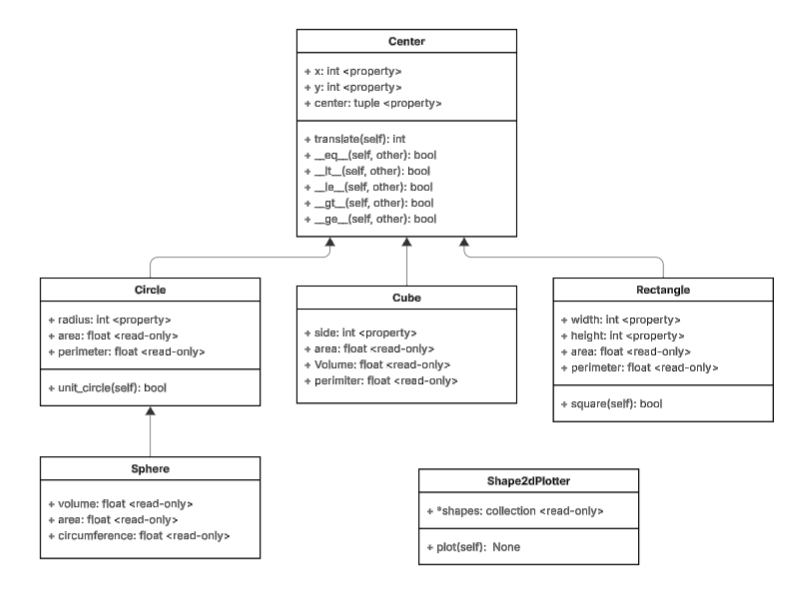
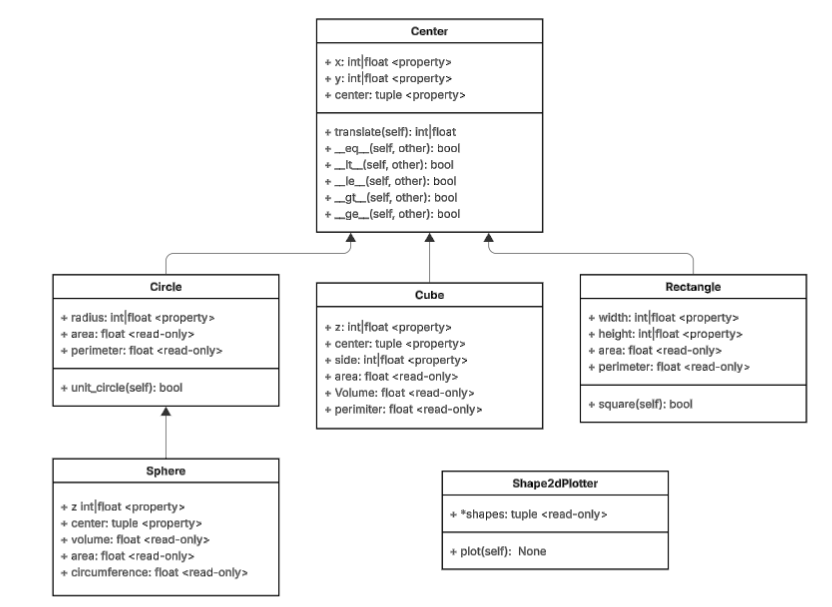
z implement in sphere and cube

Changed region(s): [[0.0311, 0.0302, 0.995, 0.9966], [0.4975, 0.755, 0.8085, 0.9664]]

diff --git a/center.py b/center.py
@@ -9,11 +9,11 @@ class Center:
     - y (int): The coordinate on the y axel.
 
     Dunder methods:
-    - __eq__: Compare if two child-classes are equal. The same type, area and perimeter
-    - __lt__: Check if a shape in child-class is smaller than another in same class. Compared by area.
-    - __le__: Check if a shape in child-class is smaller or equal to another in same class. Compared by area.
-    - __gt__: Check if a shape in child-class is greater than another in same class. Compared by area.
-    - __ge__: Check if a shape in child-class is greater or equal to another in same class. Compared by area.
+    - __eq__, ==: Compare if two child-classes are equal. The same type, area and perimeter
+    - __lt__, <: Check if a shape in child-class is smaller than another in same class. Compared by area.
+    - __le__, <=: Check if a shape in child-class is smaller or equal to another in same class. Compared by area.
+    - __gt__, >: Check if a shape in child-class is greater than another in same class. Compared by area.
+    - __ge__, >=: Check if a shape in child-class is greater or equal to another in same class. Compared by area.
 
     Methods:
     - translate(): Moves the center position by adding to the existing one.
@@ -25,7 +25,7 @@ class Center:
     Center(x=3, y=6)
     """
 
-    def __init__(self, x=0, y=0) -> None:
+    def __init__(self, x:int|float=0, y:int|float=0) -> None:
         """
         Initializes an new instance of the class Center.
 
@@ -63,6 +63,14 @@ class Center:
     @center.setter
     def center(self, value) ->None:        
         self._center = (self._x, self._y)    
+
+        
+    def translate(self, x: int|float, y: int|float) -> str:
+        """Puts x and y in a tuple."""
+        self._x = self._x + x
+        self._y = self._y + y
+        self._center = (self._x, self._y)
+        return f"The new center of the shape is {self._center}"
 
 
     def __eq__(self, other) -> bool: 
@@ -108,13 +116,6 @@ class Center:
         else:
             return False
         
-
-    def translate(self, x: int|float, y: int|float) -> str:
-        """Puts x and y in a tuple."""
-        self._x = self._x + x
-        self._y = self._y + y
-        self._center = (self._x, self._y)
-        return f"The new center of the shape is {self._center}"
 
     def __repr__(self) ->str:
         return f"Center(x={self._x}, y={self._y})"

diff --git a/cube.py b/cube.py
@@ -10,6 +10,9 @@ class Cube(Center):
     - y (int): The coordinate on the y axel.
     - side (int): The side of the cube.
 
+    Operators:
+    - operators for comparison: ==, <, <=, >, >= 
+
     Methods:
     - translate(): Moves the center position by adding to the existing one.
 
@@ -20,7 +23,7 @@ class Cube(Center):
     (4, 2) represents the centerposition. The cubes sides are 3.
     """
 
-    def __init__(self, side: int|float, x=0, y=0) -> None:
+    def __init__(self, x:int|float=0, y:int|float=0, z:int|float=0, side: int|float=1) -> None:
         """
         Initializes an new instance of the class Cube.
 
@@ -29,8 +32,10 @@ class Cube(Center):
         - y (int): The coordinate on the y axel.
         - side (int): The side of the cube.
         """
+        self.z = z
         super().__init__(x, y)
         self.side = side
+        self.center = (self.x, self.y, self.z)
 
     @property
     def side(self) -> int|float:
@@ -42,6 +47,23 @@ class Cube(Center):
         utils.validation_positive_number(value)
 
         self._side = value
+
+    @property
+    def z(self) -> int|float:         
+        return self._z 
+    
+    @z.setter
+    def z(self, value: int|float) -> None:
+        utils.validate_type_number(value)
+        self._z = value
+
+    @property
+    def center(self) -> tuple:        
+        return self._center
+    
+    @center.setter
+    def center(self, value) ->None:        
+        self._center = (self._x, self._y, self._z)
 
     @property
     def volume(self) -> float:
@@ -56,7 +78,7 @@ class Cube(Center):
         return round((self._side * self._side) * 6,4)
     
     def __repr__(self) ->str:
-        return f"Cube(x={self._x}, y={self._y}, side={self._side})"
+        return f"Cube(x={self._x}, y={self._y}, z={self._z}, side={self._side})"
     
     def __str__(self) ->str:
         return f"{self._center} represents the centerposition. The cubes sides are {self._side}"

diff --git a/sphere.py b/sphere.py
@@ -1,4 +1,5 @@
 from circle import Circle
+import utils
 import numpy as np
 
 class Sphere(Circle):
@@ -9,6 +10,9 @@ class Sphere(Circle):
     - x (int): The coordinate on the x axel.
     - y (int): The coordinate on the y axel.
     - radius (int): The radius of the sphere.
+
+    Operators:
+    - operators for comparison: ==, <, <=, >, >= 
 
     Methods:
     - translate(): Moves the center position by adding to the existing one.
@@ -22,7 +26,7 @@ class Sphere(Circle):
     12.5664
     """
 
-    def __init__(self, radius: int|float, x= 0, y= 0) -> None:
+    def __init__(self, x:int|float= 0, y:int|float= 0, z:int|float= 0, radius: int|float=1) -> None:
         """
         Initializes an new instance of the class Sphere.
 
@@ -31,7 +35,26 @@ class Sphere(Circle):
         - y (int): The coordinate on the y axel.
         - radius (int): The radius of the sphere.
         """
-        super().__init__(radius, x, y)
+        self.z = z
+        super().__init__(x, y, radius)
+        self.center = (self.x, self.y, self.z)
+
+    @property
+    def z(self) -> int|float:         
+        return self._z 
+    
+    @z.setter
+    def z(self, value: int|float) -> None:
+        utils.validate_type_number(value)
+        self._z = value
+
+    @property
+    def center(self) -> tuple:        
+        return self._center
+    
+    @center.setter
+    def center(self, value) ->None:        
+        self._center = (self._x, self._y, self._z)
 
     @property    
     def volume(self) -> float:
@@ -46,7 +69,7 @@ class Sphere(Circle):
         return round((self.radius*self.radius)*np.pi*4, 4)
     
     def __repr__(self) ->str:
-        return f"Sphere(x={self.x}, y={self.y}, radius={self.radius})"
+        return f"Sphere(x={self._x}, y={self._y}, z={self._z}, radius={self.radius})"
     
     def __str__(self) ->str:
         return f"{self._center} represents the centerposition. The spheres radius is {self.radius}"

diff --git a/test_sphere.py b/test_sphere.py
@@ -2,42 +2,42 @@ from pytest import raises
 from sphere import Sphere
 
 def test_valid_init():
-    s = Sphere(1,1,3)
-    assert s.x == 1 and s.y == 1 and s.radius == 3
+    s = Sphere(1,1,2,3)
+    assert s.x == 1 and s.y == 1 and s.z == 2 and s.radius == 3
 
 def test_negative_placement_valid():
-    s = Sphere(1,-2,3)
-    assert s.x == 1 and s.y == -2 and s.radius == 3
+    s = Sphere(1,-2,2,3)
+    assert s.x == 1 and s.y == -2 and s.z == 2 and s.radius == 3
 
 def test_negative_radius_fail():
     with raises(ValueError):
-        Sphere(1,2,-3)
+        Sphere(1,2,1,-3)
 
 def test_zero_radius_fail():
     with raises(ValueError):
-        Sphere(1,1,0)
+        Sphere(1,1,1,0)
 
 def test_string_init_fail():
     with raises(TypeError):
-        Sphere(1,"2",3)
-        Sphere(1,2,"3") 
+        Sphere(1,"2",2,3)
+        Sphere(1,2,1,"3") 
         
 def test_volume_valid():
-    s = Sphere(1,1,3)
+    s = Sphere(1,1,2,3)
     assert s.volume == 113.0973
  
 def test_circumference_valid():
-    s = Sphere(1,1,3)
+    s = Sphere(1,1,2,3)
     assert s.circumference == 18.8496
 
 def test_area_valid():
-    s = Sphere(1,1,4)
+    s = Sphere(1,1,2,4)
     assert s.area == 201.0619
 
 def test_dunder_repr():
-    s = Sphere(1,1,4)
-    assert repr(s) == "Sphere(x=1, y=1, radius=4)"
+    s = Sphere(1,1,1,4)
+    assert repr(s) == "Sphere(x=1, y=1, z=1, radius=4)"
 
 def test_dunder_str():
-    s = Sphere(2,4,1)
-    assert str(s) == "(2, 4) represents the centerposition. The spheres radius is 1"
+    s = Sphere(2,4,2,1)
+    assert str(s) == "(2, 4, 2) represents the centerposition. The spheres radius is 1"

diff --git a/test_cube.py b/test_cube.py
@@ -2,43 +2,43 @@ from pytest import raises
 from cube import Cube
 
 def test_valid_init():
-    c = Cube(1,1,5)
-    assert c.x == 1 and c.y == 1 and c.side == 5
+    c = Cube(1,1,2,5)
+    assert c.x == 1 and c.y == 1 and c.z == 2 and c.side == 5
 
 def test_negative_placement_valid():
-    c = Cube(1,-2,3,)
-    assert c.x == 1 and c.y == -2 and c.side == 3 
+    c = Cube(1,-2,2,3)
+    assert c.x == 1 and c.y == -2 and c.z == 2 and c.side == 3 
 
 def test_negative_side_fail():
     with raises(ValueError):
-        Cube(1,2,-3)
+        Cube(1,2,2,-3)
 
 def test_zero_side_fail():
     with raises(ValueError):
-        Cube(1,1,0)
+        Cube(1,1,2,0)
 
 def test_string_init_fail():
     with raises(TypeError):
-        Cube(1,"2",3)
-        Cube(1,2,"3") 
+        Cube(1,"2",2,3)
+        Cube(1,2,2,"3") 
         
 def test_volume_valid():
-    c = Cube(1,1,3)
+    c = Cube(1,1,2,3)
     assert c.volume == 27
  
 def test_circumference_valid():
-    c = Cube(1,1,3)
+    c = Cube(1,1,2,3)
     assert c.perimeter == 36
 
 def test_area_valid():
-    c = Cube(1,1,4)
+    c = Cube(1,1,2,4)
     assert c.area == 96
 
 def test_dunder_repr():
-    c = Cube(1,1,4)
-    assert repr(c) == "Cube(x=1, y=1, side=4)"
+    c = Cube(1,1,2,4)
+    assert repr(c) == "Cube(x=1, y=1, z=2, side=4)"
 
 def test_dunder_str():
-    c = Cube(3,4,1)
-    assert str(c) == "(3, 4) represents the centerposition. The cubes sides are 1"
+    c = Cube(3,4,2,1)
+    assert str(c) == "(3, 4, 2) represents the centerposition. The cubes sides are 1"
     # help from LLM how to test __repr__ and __str__

diff --git a/rectangle.py b/rectangle.py
@@ -11,6 +11,9 @@ class Rectangle(Center):
     - width (int): The width of the rectangle.
     - height (int): The height of the rectangle.
 
+    Operators:
+    - operators for comparison: ==, <, <=, >, >= 
+
     Methods:
     - translate(): Moves the center position by adding to the existing one.
     - square(): Checks if the figure is a square or not.
@@ -24,7 +27,7 @@ class Rectangle(Center):
     Rectangle(x=1, y=4, width=3, height=1)
     """
 
-    def __init__(self, width: int|float, height: int|float, x=0, y=0) -> None:
+    def __init__(self, x:int|float=0, y:int|float=0, width: int|float=1, height: int|float=1) -> None:
         """
         Initializes an new instance of the class Rectangle.
 

diff --git a/circle.py b/circle.py
@@ -11,6 +11,9 @@ class Circle(Center):
     - y (int): The coordinate on the y axel.
     - radius (int): The radius of the circle.
 
+    Operators:
+    - operators for comparison: ==, <, <=, >, >= 
+
     Methods:
     - translate(): Moves the center position by adding to the existing one.
     - unit_circle(): Checks if the circle is a unit circle.
@@ -24,7 +27,7 @@ class Circle(Center):
     Circle(x=3, y=4, radius=1)
     """
 
-    def __init__(self, radius: int|float, x= 0, y= 0) -> None:
+    def __init__(self, x:int|float= 0, y:int|float= 0, radius: int|float=1) -> None:
         """
         Initializes an new instance of the class Circle.
 

diff --git a/shape2dplotter.py b/shape2dplotter.py
@@ -19,7 +19,7 @@ class Shape2dPlotter:
     >>> plot1.plot()
     """
 
-    def __init__(self, *shapes) -> None:
+    def __init__(self, *shapes: tuple) -> None:
         """
         Initializes an new instance of the class Shape2dPlotter.
 

diff --git a/README.md b/README.md
@@ -9,6 +9,8 @@ When moving on to part two of the excercise I updated the UML and implemented tw
 
 The last UML is for the implementation of a plot class, Shape2dPlotter. 
 
+![Final UML](UMLs/Lab2_UML3.png)
+
 ## Code
 
 ### Classes
